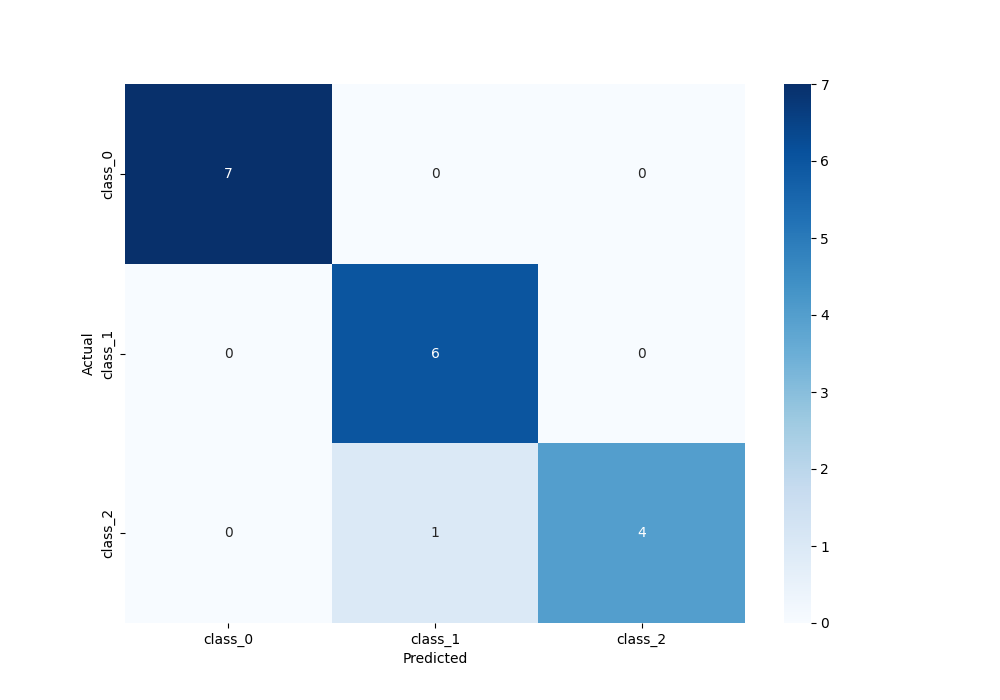
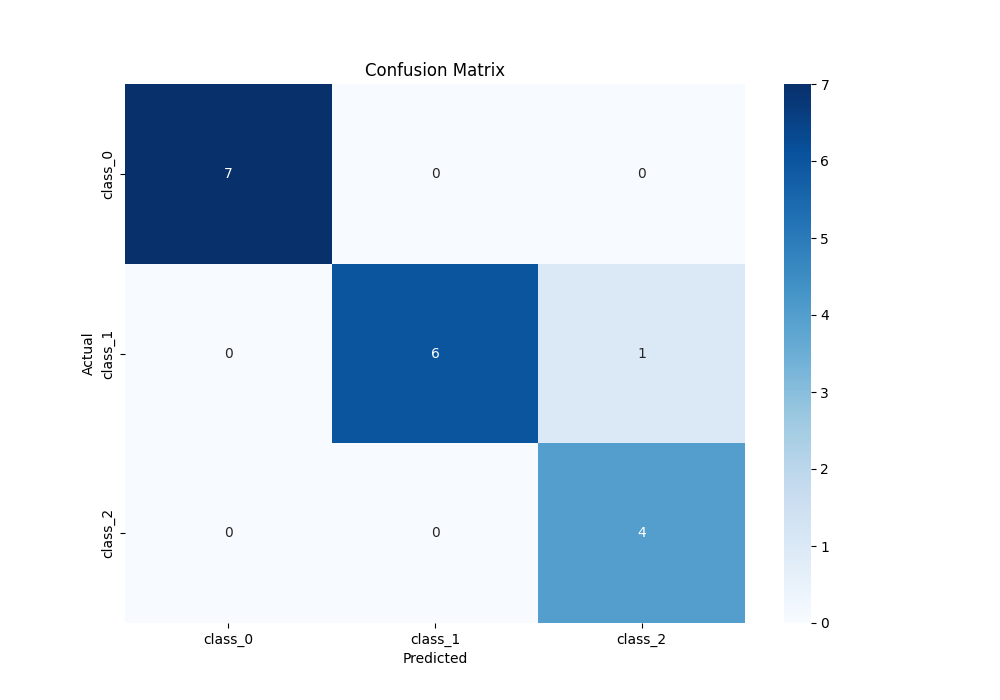
final

Changed region(s): [[0.31, 0.36, 0.744, 0.9], [0.372, 0.09, 0.496, 0.12]]

diff --git a/hypertuning.py b/hypertuning.py
@@ -1,0 +1,77 @@
+import mlflow
+import mlflow.sklearn
+from sklearn.datasets import load_wine
+from sklearn.model_selection import train_test_split, GridSearchCV
+from sklearn.metrics import accuracy_score, confusion_matrix
+from sklearn.ensemble import RandomForestClassifier
+import matplotlib.pyplot as plt
+import seaborn as sns
+import dagshub
+import os
+
+# Load dataset
+wine = load_wine()
+x = wine.data
+y = wine.target
+
+# Split data
+x_train, x_test, y_train, y_test = train_test_split(x, y, test_size=0.1, random_state=42)
+
+# Set MLflow tracking URI and initialize DagsHub
+mlflow.set_tracking_uri("https://dagshub.com/Bhuvnn/ML-Flow-Practise.mlflow")
+dagshub.init(repo_owner='Bhuvnn', repo_name='ML-Flow-Practise', mlflow=True)
+
+# Set experiment and enable autologging
+mlflow.set_experiment("MLOps GridSearchCV AutoLog Experiment")
+mlflow.autolog()
+
+# Define parameter grid
+param_grid = {
+    'max_depth': [5, 10, 15],
+    'n_estimators': [10, 20, 50]
+}
+
+# Start MLflow run
+with mlflow.start_run():
+    # Apply GridSearchCV
+    grid_search = GridSearchCV(
+        estimator=RandomForestClassifier(random_state=42),
+        param_grid=param_grid,
+        scoring='accuracy',
+        cv=3,
+        verbose=1,
+        n_jobs=-1
+    )
+    
+    grid_search.fit(x_train, y_train)
+
+    # Best model from grid search
+    best_model = grid_search.best_estimator_
+    preds = best_model.predict(x_test)
+
+    # Accuracy and confusion matrix
+    acc = accuracy_score(y_test, preds)
+    cm = confusion_matrix(y_test, preds)
+
+    # Plot confusion matrix
+    plt.figure(figsize=(10, 7))
+    sns.heatmap(cm, annot=True, fmt="d", cmap="Blues", 
+                xticklabels=wine.target_names, yticklabels=wine.target_names)
+    plt.xlabel("Predicted")
+    plt.ylabel("Actual")
+    plt.title("Confusion Matrix")
+    plt.savefig("confusion_matrix.png")
+
+    # Log confusion matrix as artifact
+    mlflow.log_artifact("confusion_matrix.png")
+
+    # Optional: log script file
+    if '__file__' in globals() and os.path.isfile(__file__):
+        mlflow.log_artifact(__file__)
+
+    # Set tags
+    mlflow.set_tags({"author": "Bhuvnn", "Project": "Wine Classification with GridSearchCV"})
+
+    print("Best Params:", grid_search.best_params_)
+    print("Best Score:", grid_search.best_score_)
+    print("Accuracy:", round(acc * 100, 2), "%")

diff --git a/autolog.py b/autolog.py
@@ -19,7 +19,8 @@ max_depth=10
 n_estimators=20
 
 # Mention yout experiment below
-mlflow.set_experiment("MLOps experiment demo ") # This is an important code in which we can give name for particular experiment for every file, where each file's change will be saved along with its params, artifacts, metrics in separate folder
+mlflow.autolog() # This is used to automatically log all the parameters, metrics, artifacts, and models without explicitly calling log_param, log_metric, etc.
+mlflow.set_experiment("MLOps auto log experiment ") # This is an important code in which we can give name for particular experiment for every file, where each file's change will be saved along with its params, artifacts, metrics in separate folder
 
 with mlflow.start_run():
     model=RandomForestClassifier(max_depth=max_depth,n_estimators=n_estimators,random_state=42)
@@ -36,22 +37,10 @@ with mlflow.start_run():
     plt.xlabel("Predicted")
     plt.savefig("confusion_matrix.png")
     
-    #save logs 
-    #save metrics
-    mlflow.log_metric('accuracy',accuracy_score) #used to save logs for metrics
-    
-    #save parameters
-    mlflow.log_param('max_depth',max_depth) #used for parameters
-    mlflow.log_param('n_estimators',n_estimators) #same as above
-    
-    #save files and artifacts
-    mlflow.log_artifact("confusion_matrix.png") # used to log images plots, files etc
     mlflow.log_artifact(__file__) # here the python file itself is logged
     
     #save tags
     mlflow.set_tags({"author":"Bhuvnn","Project":"Wine Classification"})
     
-    #log the model
-    mlflow.sklearn.log_model(model,"RandomForest Model")
     print(round(accuracy_score*100,2))
     
